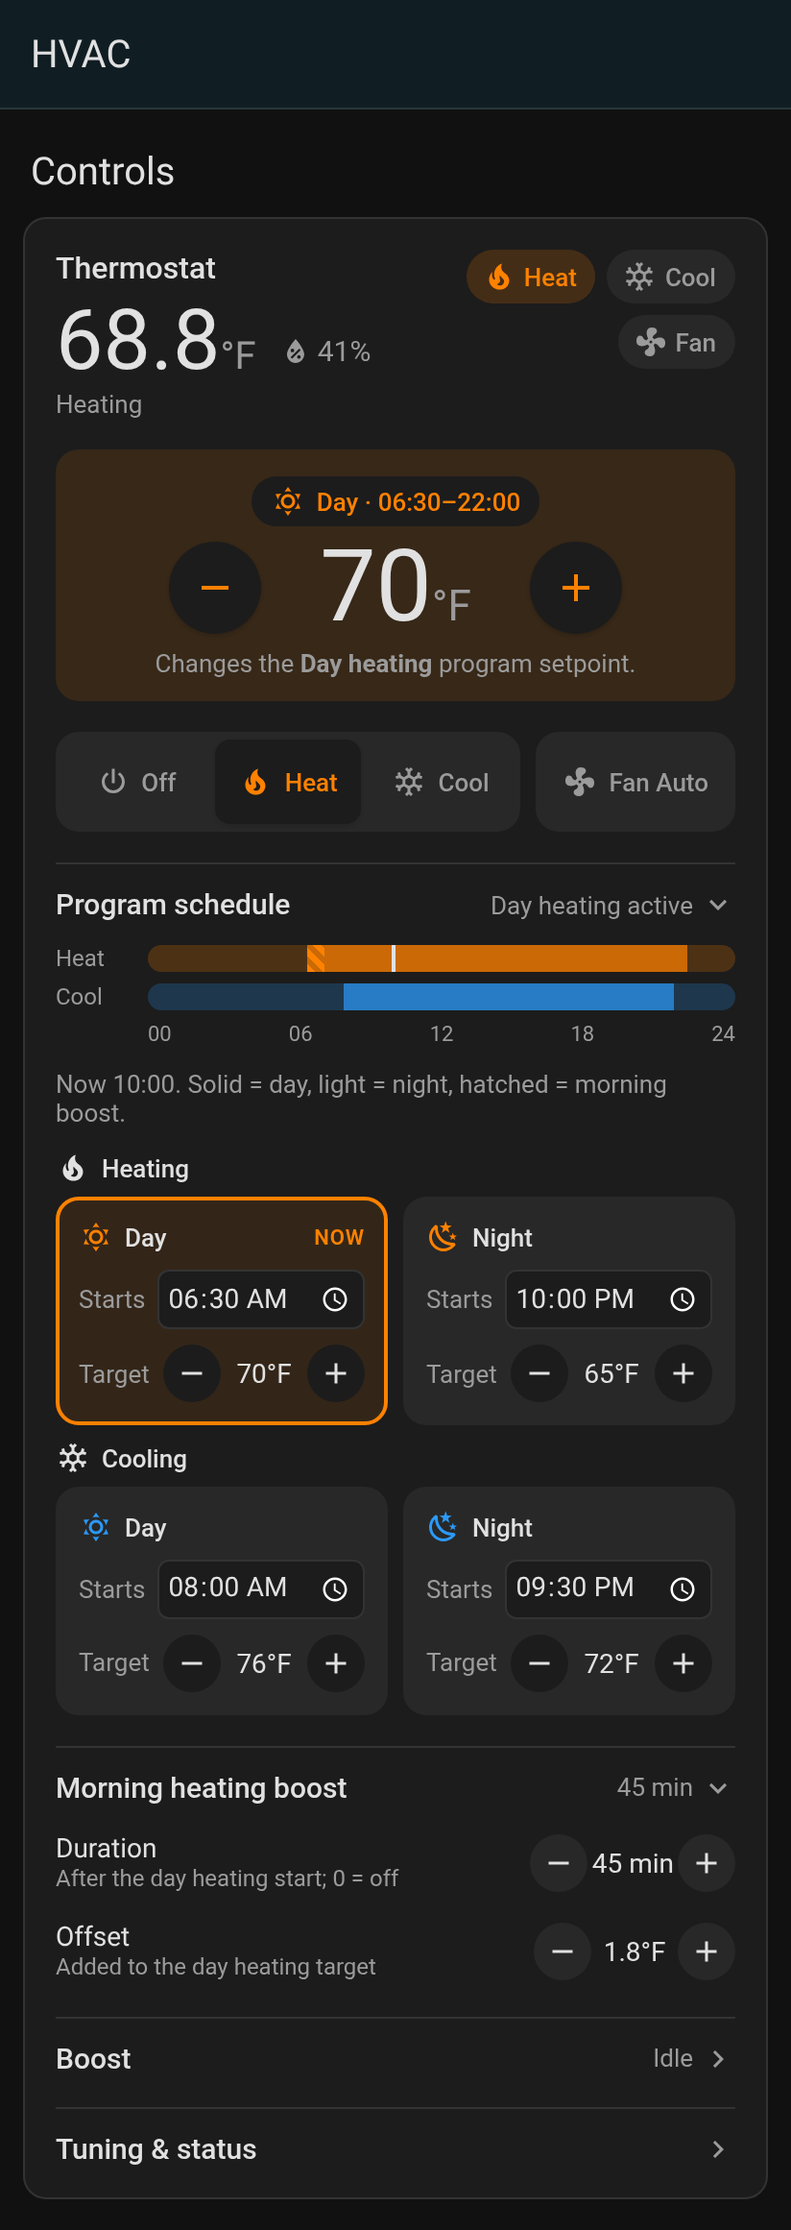
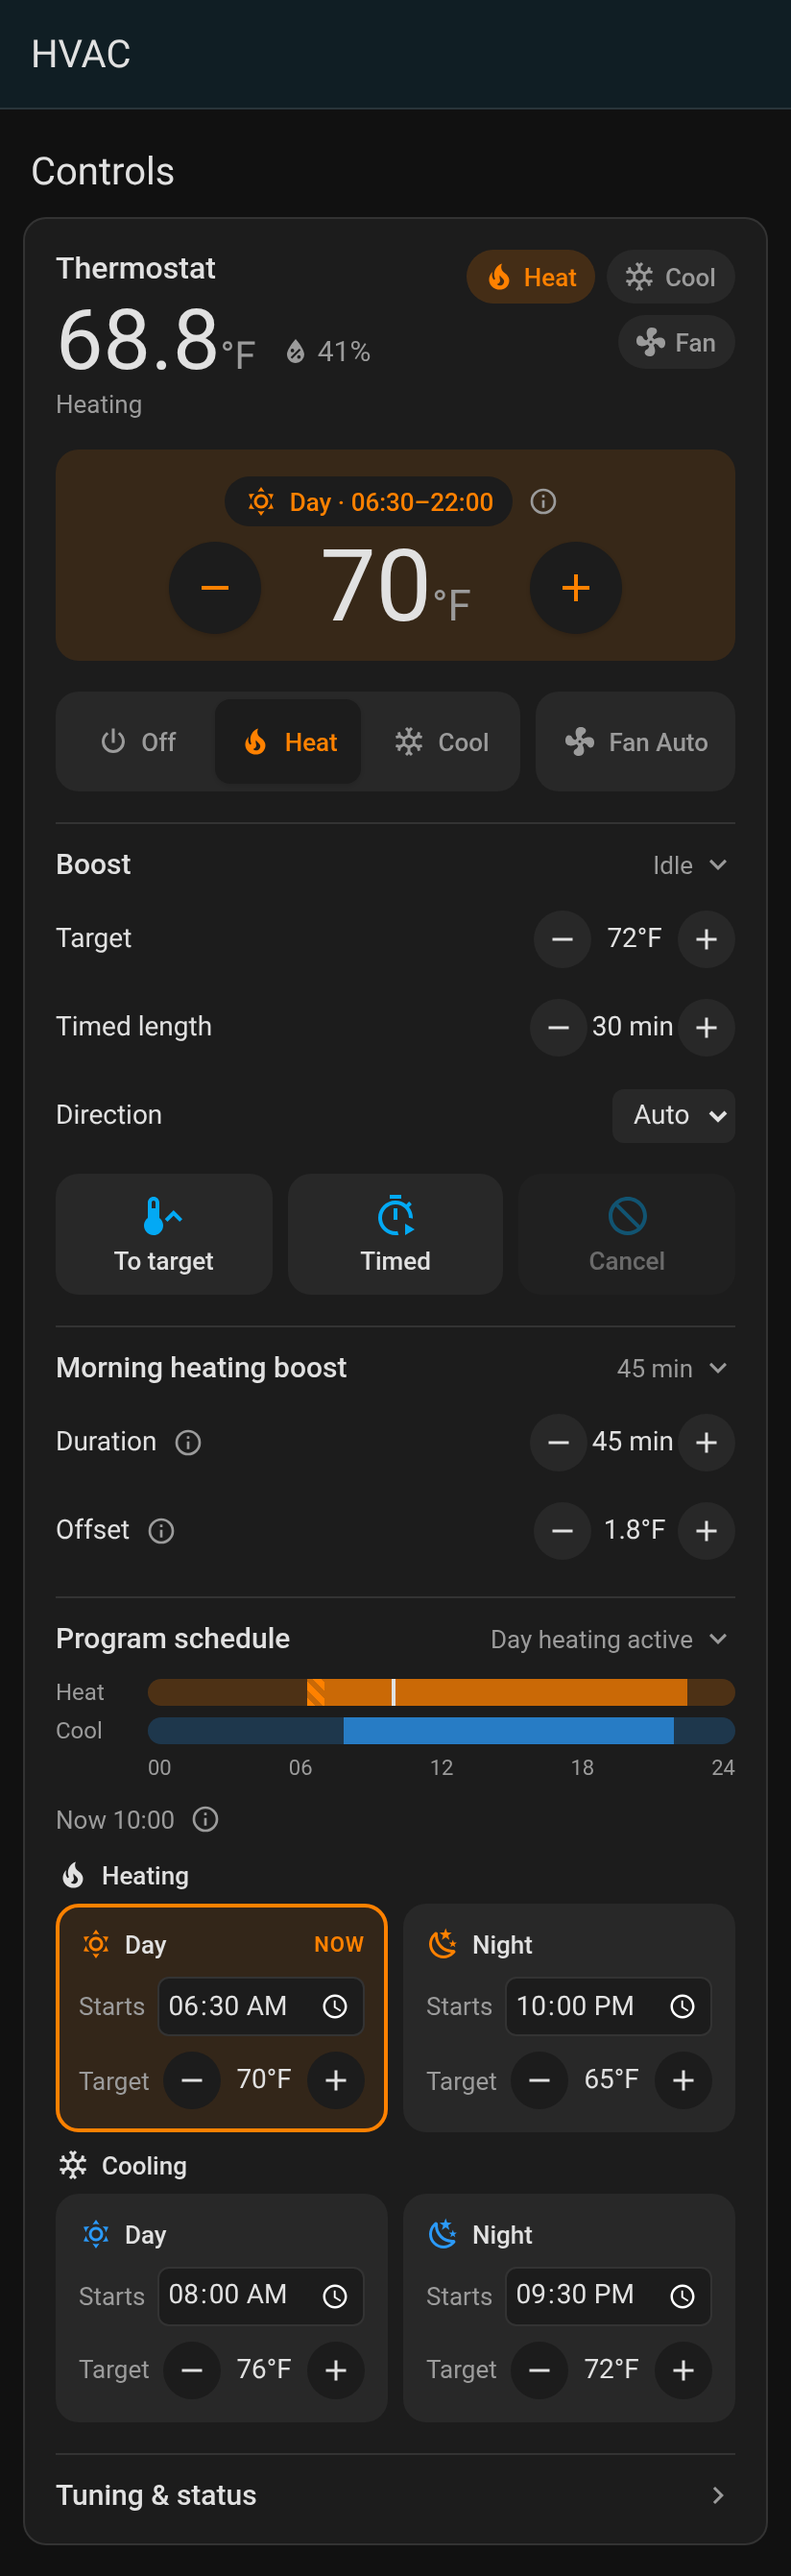
card: re-render screenshots, add one with a tooltip open

diff --git a/firmware/ha/lovelace-card/demo/index.html b/firmware/ha/lovelace-card/demo/index.html
@@ -51,10 +51,11 @@
   document.documentElement.className = theme;
   const c = `climate.${PREFIX}`;
   const scenarios = {
-    'heat-day': { now: 10 * 60, open: ['schedule', 'morning'], patch: {} },
+    'heat-day': { now: 10 * 60, open: ['boost', 'morning', 'schedule'], patch: {} },
+    'tooltip': { now: 10 * 60, open: ['boost', 'morning', 'schedule'], patch: {}, tip: 'setpoint' },
     'cool-night': {
       now: 22 * 60 + 40,
-      open: ['schedule', 'boost'],
+      open: ['boost', 'schedule'],
       patch: {
         [c]: { state: 'cool', attributes: { hvac_action: 'cooling', fan_mode: 'on', current_temperature: 75.4, temperature: 72 } },
         [`sensor.${PREFIX}_schedule_period`]: { state: 'Night' },
@@ -64,7 +65,7 @@
         [`sensor.${PREFIX}_humidity`]: { state: '55' },
       },
     },
-    'morning-boost': { now: 6 * 60 + 50, open: ['schedule', 'morning', 'status'], patch: { [`sensor.${PREFIX}_schedule_period`]: { state: 'Day_morning_boost' }, [c]: { attributes: { temperature: 70, current_temperature: 67.1 } } } },
+    'morning-boost': { now: 6 * 60 + 50, open: ['morning', 'schedule', 'status'], patch: { [`sensor.${PREFIX}_schedule_period`]: { state: 'Day_morning_boost' }, [c]: { attributes: { temperature: 70, current_temperature: 67.1 } } } },
   };
   const sc = scenarios[q.get('scenario')] ?? scenarios['heat-day'];
   const el = document.createElement('connie-thermostat-card');
@@ -74,6 +75,7 @@
   hass.themes.darkMode = theme === 'dark';
   el.hass = hass;
   el._open = Object.fromEntries(['schedule', 'morning', 'boost', 'status'].map((k) => [k, sc.open.includes(k)]));
+  if (sc.tip) el._tip = { id: sc.tip, pinned: true };
   document.getElementById('slot').appendChild(el);
   el.updateComplete.then(() => document.body.setAttribute('data-ready', ''));
 </script>
